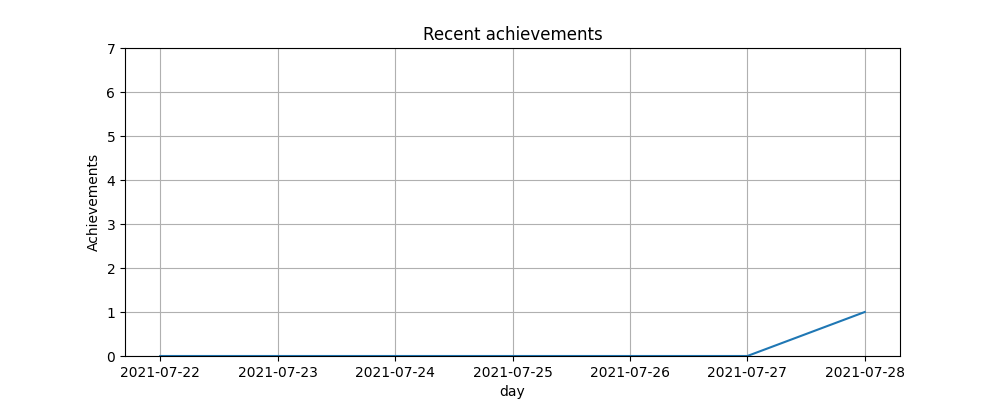
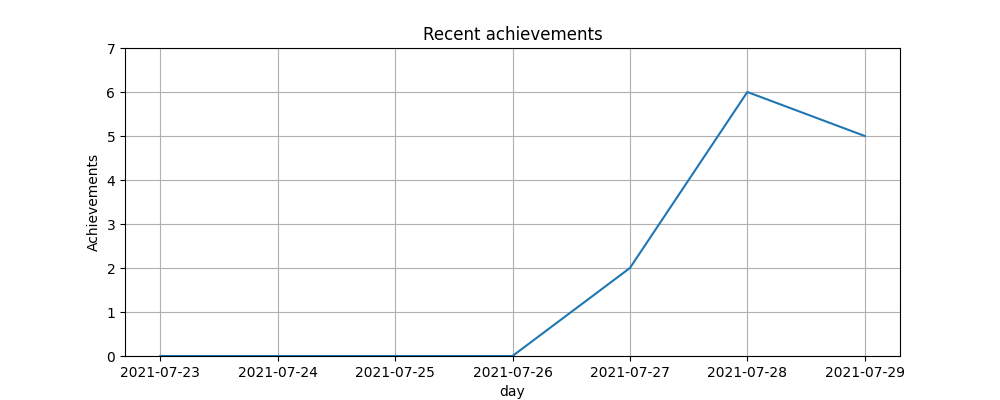
Merge branch 'main' of https://github.com/ShoKatsuki06/flask-todo-app into main

diff --git a/templates/index.html b/templates/index.html
@@ -8,6 +8,7 @@
   <h1>トップページ</h1>
   <p><button type="button" onclick="location.href='/create'" class="confirm_btn">新規タスクを作成</button></p>
   <p><a href="index.html"><img src="{{ url_for('static',filename='img/f_gragh.png') }}"></a></p>
+    <p>本日のチームの総TODO達成数は{{num}}です</p>
 <div class="multiple_table">
 {% for post in posts %}
 <table class="table">

diff --git a/static/css/style.css b/static/css/style.css
@@ -92,7 +92,7 @@ footer {
   /* background: #fff; */
   font-size: 5vh;
 }
-.top h1 {
+.top p {
   font-size: 3vh;
   margin-top: 1vh;
 }

diff --git a/app.py b/app.py
@@ -201,15 +201,18 @@ def index():
            import news
            db = dbstart()
            name = session.get('name')
-           sql = 'SELECT * FROM todo LIMIT 10;'
+           sql = 'SELECT * FROM todo ;'
            rows = selctcommand(db,sql)
+           date = datetime.date.today()
+           num = selctcommand1(dbstart(),'SELECT * FROM todofinish WHERE day = %s LIMIT 1;',(date,))
+           sum=num[1]
            ne =  news.check()
            n = '今日のニュースは'
            for new in ne:
                ne = (new+' ')
                n = n+ne
            print(n)
-           return render_template("index.html", posts = rows,n = n)
+           return render_template("index.html", posts = rows,n = n,num=sum)
         elif request.method =='POST':#登録
            name = session.get('name')#これかいたらできるよ
            userid = session.get('userid')
@@ -226,14 +229,17 @@ def index():
            db = dbstart()
            name = session.get('name')
            sql = 'SELECT * FROM todo WHERE username = %s LIMIT 10;'
+           date = datetime.date.today()
            rows = selctcommand2(db,sql,(name,))
+           num = selctcommand1(dbstart(),'SELECT * FROM todofinish WHERE day = %s LIMIT 1;',(date,))
+           sum = num[1]
            ne =  news.check()
            n = '今日のニュースは'
            for new in ne:
                ne = (new+' ')
                n = n+ne
            print(n)
-           return render_template("index.html", posts = rows,n = n)
+           return render_template("index.html", posts = rows,n = n,num = sum)
 
 
 
@@ -325,8 +331,9 @@ def mypage():
         for finish in finishs:
             number = number + finish[1]
         average = number / len(finishs)
+        f_average = format(average,'.2f')
 
-        return render_template("mypage.html",name=name,number=number,average=average)
+        return render_template("mypage.html",name=name,number=number,average=f_average)
 
 
 

diff --git a/glaph.py b/glaph.py
@@ -47,7 +47,7 @@ plt.plot(x,y)
 plt.title('Recent achievements')
 plt.ylabel('Achievements')
 plt.xlabel('day')
-plt.ylim(0, 7)
+plt.ylim(0, 30)
 plt.grid()
 
 #plt.figure(figsize=(9, 9))
